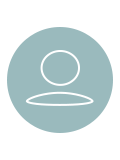
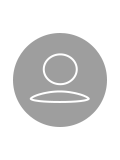
1.修正了教师不能创建 2.修改了教师表单样式 3.修改了默认头像为颜色.

diff --git a/src/app/components/teacher/teacher-form/teacher-form.component.ts b/src/app/components/teacher/teacher-form/teacher-form.component.ts
@@ -4,6 +4,9 @@ import {Observable} from 'rxjs';
 import {RestService} from '../../../services/rest.service';
 import {ActivatedRoute} from '@angular/router';
 import {DictService} from '../../../services/dict.service';
+import {NgForm} from '@angular/forms';
+import {environment} from '../../../../environments/environment';
+import {DomSanitizer} from '@angular/platform-browser';
 
 @Component({
   selector: 'app-teacher-form',
@@ -24,7 +27,10 @@ export class TeacherFormComponent implements OnInit {
   genders: Observable<any[]>;
   groups: Observable<any[]>;
   roles: Observable<any[]>;
-  constructor(private rest: RestService, private route: ActivatedRoute, private  dict: DictService) { }
+  avatar64: string | ArrayBuffer = '';
+  imgsrc: any = '/assets/img/imghead.png';
+
+  constructor(private rest: RestService, private route: ActivatedRoute, private  dict: DictService, private sanitizer: DomSanitizer ) { }
 
   ngOnInit() {
     this.route.paramMap.subscribe((params: any) => {
@@ -44,17 +50,18 @@ export class TeacherFormComponent implements OnInit {
   getRoles() {
     this.roles = this.rest.index('roles').pipe(map((res: any) =>  res.result ));
   }
-  save() {
+  save(f: NgForm) {
     if (this.teacher.id != null) {
-      this.update();
+      this.update(f);
     } else {
-      this.create();
+      this.create(f);
     }
   }
 
-  create() {
-    this.rest.create('teachers', {teacher: this.teacher}).subscribe((data: any) => {
+  create(f: NgForm) {
+    this.rest.create('teachers', this.teacher ).subscribe((data: any) => {
       this.teacher = data;
+
       this.goBack();
     }, error => {
       this.rest.errorHandle(error);
@@ -65,13 +72,16 @@ export class TeacherFormComponent implements OnInit {
     this.rest.show('teachers/' + this.teacher.id).subscribe((data: any) => {
       this.teacher = data;
       this.getDepartments();
+      this.imgsrc = environment.baseUrl + this.teacher.avatar_url;
 
     });
   }
 
-  update() {
-    this.rest.update('teachers/' + this.teacher.id, {teacher: this.teacher}).subscribe((data: any) => {
+  update(f: NgForm) {
+    this.rest.update('teachers/' + this.teacher.id, {teacher: f.value}).subscribe((data: any) => {
       this.teacher = data;
+      // console.log(this.teacher);
+
       this.goBack();
     }, error => {
       this.rest.errorHandle(error);
@@ -95,6 +105,17 @@ export class TeacherFormComponent implements OnInit {
 
   goBack() {
     this.rest.navigate(['/bxt/teachers']);
+  }
+  getAvatar(event) {
+    const file = event.target.files[0];
+    this.imgsrc = this.sanitizer.bypassSecurityTrustUrl(window.URL.createObjectURL(file));
+    if (file) {
+      const reader = new FileReader();
+      reader.onloadend = (e) => {
+        this.avatar64 = reader.result;
+      };
+      reader.readAsDataURL(file);
+    }
   }
 
 }

diff --git a/src/app/components/teacher/teacher.component.html b/src/app/components/teacher/teacher.component.html
@@ -33,19 +33,20 @@
         </mat-checkbox>
       </td>
     </ng-container>
-    <ng-container matColumnDef="picture">
-      <th mat-header-cell *matHeaderCellDef mat-sort-header> 照片 </th>
-      <td mat-cell *matCellDef="let row">
-        <div class="picbox">
-<!--          <img src="{{row.picture}}">-->
-          <img (click)="openDialog('http://img4q.duitang.com/uploads/item/201410/20/20141020100423_aSJer.thumb.700_0.jpeg')" src="http://img4q.duitang.com/uploads/item/201410/20/20141020100423_aSJer.thumb.700_0.jpeg">
-        </div>
-      </td>
-    </ng-container>
 
     <ng-container matColumnDef="name">
       <th mat-header-cell *matHeaderCellDef mat-sort-header> 姓名 </th>
-      <td mat-cell *matCellDef="let row"> {{row.name}} </td>
+      <td mat-cell *matCellDef="let row">
+        <div class="picbox">
+          <!--          <img src="{{row.picture}}">-->
+          <img (click)="openDialog(baseUrl + row.avatar_url)" [src]="baseUrl + row.avatar_url">
+        </div>
+        <div class="picname">{{row.name}}</div>
+      </td>
+    </ng-container>
+    <ng-container matColumnDef="dept">
+      <th mat-header-cell *matHeaderCellDef mat-sort-header> 组织 </th>
+      <td mat-cell *matCellDef="let row"> {{row.department.full_title}} </td>
     </ng-container>
     <ng-container matColumnDef="updated_at">
       <th mat-header-cell *matHeaderCellDef mat-sort-header> 最后更新 </th>

diff --git a/src/app/components/teacher/teacher.component.ts b/src/app/components/teacher/teacher.component.ts
@@ -5,6 +5,8 @@ import {MatDialog, MAT_DIALOG_DATA } from '@angular/material';
 import {forEach} from '@angular/router/src/utils/collection';
 import {MatSnackBar} from '@angular/material';
 import {UpfileComponent} from '../upfile/upfile.component';
+import {environment} from '../../../environments/environment';
+
 export interface DialogData {
   dataid: string;
 }
@@ -14,17 +16,20 @@ export interface DialogData {
   styleUrls: ['./teacher.component.scss']
 })
 export class TeacherComponent implements OnInit, AfterViewInit {
-  displayedColumns = [ 'select', 'picture', 'name', 'updated_at', 'action'];
+  displayedColumns = [ 'select', 'name', 'dept', 'updated_at', 'action'];
   dataSource: MatTableDataSource<any[]>;
   @ViewChild(MatPaginator) paginator: MatPaginator;
   @ViewChild(MatSort) sort: MatSort;
   teacher_ids: any[] = [];
+  baseUrl: any;
 
   constructor(private rest: RestService, public dialog: MatDialog, private snackBar: MatSnackBar) {
     this.dataSource = new MatTableDataSource([]);
   }
 
   ngOnInit() {
+    this.baseUrl = environment.baseUrl;
+
     this.paginator.pageSize = 10;
     this.paginator.pageIndex = 0;
     this.loadTeachers();

diff --git a/src/app/components/teacher/teacher-form/teacher-form.component.scss b/src/app/components/teacher/teacher-form/teacher-form.component.scss
@@ -1,12 +1,13 @@
 .imgbox{
-  min-width: 300px;
-  min-height: 400px;
+  width: 120px;
+  height: 160px;
   box-shadow: 0 0 10px grey;
   border-radius: 10px;
+  overflow: hidden;
 }
 .imgbox img{
   width: 100%;
-  width: 100%;
+  height: 100%;
 }
 form {
   display: flex;
@@ -16,6 +17,39 @@ form {
     flex-wrap: wrap;
   }
 }
-.p20{
+.fileupdata{
+  position: absolute;
+  right: 10px;
+  top: 10px;
   padding: 20px;
+}
+.file {
+  position: relative;
+  display: inline-block;
+  overflow: hidden;
+  background-color: #f44336;
+  color: white;
+  border-radius: 5px;
+  width: 120px;
+  text-align: center;
+  height: 30px;
+  line-height: 30px;
+  margin: 5px 0;
+}
+
+.file input{
+  position:absolute;
+  right: 0px;
+  top: 0px;
+  opacity: 0;
+  -ms-filter: 'alpha(opacity=0)';
+  font-size: 200px;
+}
+mat-card-title{
+  background-color: dodgerblue;
+  color: white;
+  padding: 5px 20px;
+  position: relative;
+  left: -30px;
+  top: -20px;
 }

diff --git a/src/app/components/teacher/teacher-form/teacher-form.component.html b/src/app/components/teacher/teacher-form/teacher-form.component.html
@@ -1,15 +1,18 @@
-<form #teacherForm="ngForm" (ngSubmit)="save()">
-  <div class="p20">
-    <div class="imgbox">
-      <img >
-    </div>
-  </div>
+<form #teacherForm="ngForm" (ngSubmit)="save(teacherForm)">
   <mat-card>
     <mat-card-header>
       <mat-card-title>教师信息</mat-card-title>
     </mat-card-header>
     <mat-card-content>
-
+      <div class="fileupdata">
+        <div class="imgbox">
+          <img [src]="imgsrc">
+        </div>
+        <div class="file">
+          <span>上传照片</span>
+          <input type="file" [ngModel] (change)="getAvatar($event)" accept="image/png, image/jpeg, image/gif, image/jpg" name="avatar" observeFiles >
+        </div>
+      </div>
       <div>组织信息</div>
       <mat-form-field>
         <mat-select placeholder="所属学院" required [(ngModel)]="teacher.department.college.id" (selectionChange)="selectCollege()" name="college">

diff --git a/src/app/components/teacher/teacher.component.scss b/src/app/components/teacher/teacher.component.scss
@@ -9,24 +9,39 @@ table {
 .bxt-toolbar-spacer {
   flex: 1 1 auto;
 }
+
 .picbox{
+  display: inline-block;
   height: 24px;
   width: 24px;
   border-radius: 24px;
   box-shadow: 0 0 5px black;
   //transform: scale(1.5);
   overflow: hidden;
+  vertical-align:middle;
+  cursor:pointer;
 }
 .picbox img{
   width: 100%;
   height: 100%;
 }
+.picname{
+  margin-left: 10px;
+  vertical-align:middle;
+  display: inline-block;
+}
 tr td:first-of-type{
   width: 50px;
 }
 tr td:nth-of-type(2){
-  width: 50px;
+  width: 150px;
 }
 tr td:last-of-type{
   width: 50px;
+}
+.moreserch{
+  display: none;
+}
+button+button{
+  margin-left: 10px;
 }

diff --git a/src/app/components/student/student.component.html b/src/app/components/student/student.component.html
@@ -71,7 +71,6 @@
           <img (click)="openDialog(baseUrl + row.avatar_url)" [src]="baseUrl + row.avatar_url">
         </div>
         <div class="picname">{{row.name}}</div>
-
       </td>
     </ng-container>
     <ng-container matColumnDef="sno">
